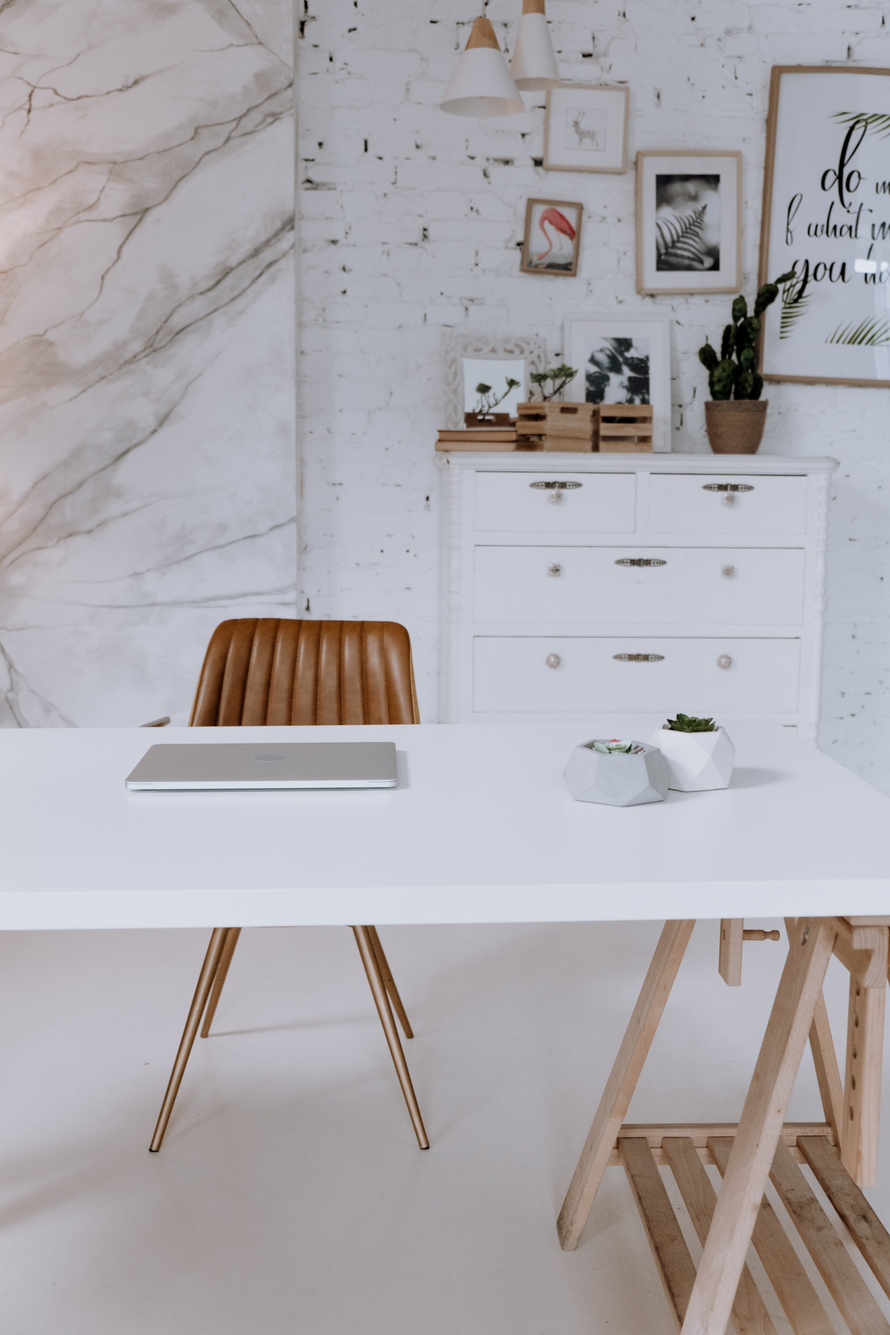
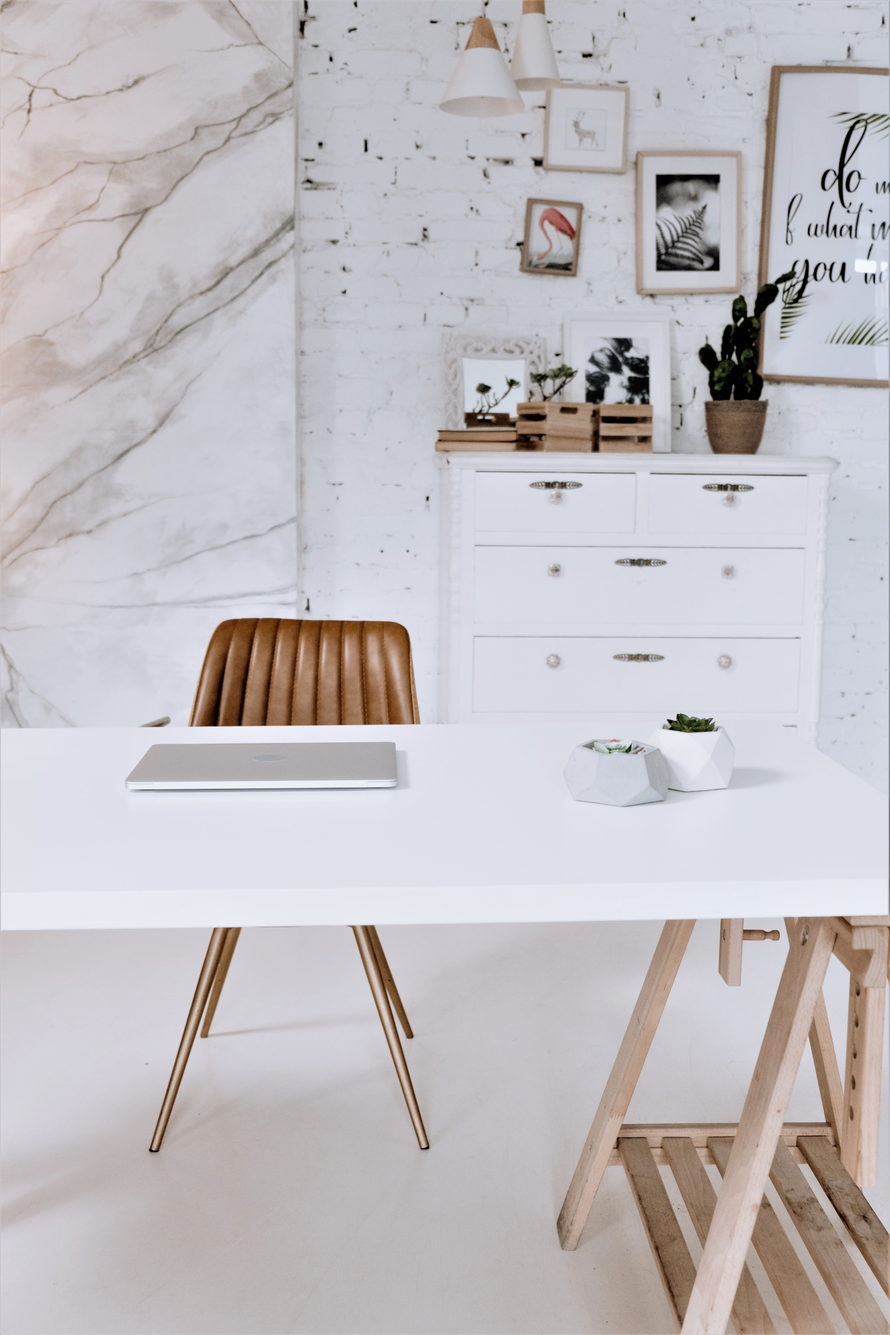
Styled 'Home' page.

diff --git a/src/components/Home/Home.module.css b/src/components/Home/Home.module.css
@@ -8,6 +8,7 @@
   position: relative;
   max-width: 1300px;
   margin: auto;
+
   /* background-position: center;
   background-size: cover;
   background-repeat: no-repeat; */
@@ -18,12 +19,70 @@
   top: -43%;
   display: block;
   width: 100%;
+  box-shadow: 0px 2px 14px 0px #8c6850;
 }
 .MainImage1 {
   position: absolute;
-  top: 18%;
+  top: 7%;
   display: block;
-  width: 400px;
-  right: 65%;
-  border: 15px solid #8c6850;
+  width: 450px;
+  right: 60%;
+  border: 7px solid #8c6850;
+}
+
+.MainText {
+  position: absolute;
+  left: 45%;
+  padding: 30px 20px;
+  width: 580px;
+  text-align: center;
+}
+
+.MainText h1 {
+  font-size: 60px;
+  font-family: 'Dancing Script';
+  color: #dcdfea;
+}
+
+.MainText p {
+  font-size: 40px;
+  font-family: 'Dancing Script';
+  color: #dcdfea;
+}
+
+.MainSideText {
+  position: absolute;
+  font-family: 'Dancing Script';
+  font-size: 40px;
+  transform: rotate(-17deg);
+  right: 68%;
+  bottom: 74%;
+  color: #181617;
+  font-weight: bold;
+}
+
+.MainButton {
+  position: absolute;
+  left: 62%;
+  top: 67%;
+  color: #dcdfea;
+  font-weight: bold;
+  text-transform: uppercase;
+  text-decoration: none;
+  letter-spacing: 1px;
+  background: #8c6850;
+  padding: 20px;
+  cursor: pointer;
+  display: inline-block;
+  border: none;
+  transition: all 0.3s ease 0s;
+  width: 180px;
+  border: 1px solid #dcdfea;
+}
+
+.MainButton:hover {
+  text-shadow: 0px 0px 7px rgba(255, 255, 255, 1);
+  box-shadow: 0px 5px 30px 3px rgba(140, 104, 80, 0.57);
+  transition: all 0.4s ease 0s;
+  border: none;
 }

diff --git a/src/components/Home/Home.js b/src/components/Home/Home.js
@@ -9,7 +9,16 @@ class Home extends Component {
       <main className={classes.Home} id='home'>
         <img className={classes.MainImage} src={img3} alt='' />
         <img className={classes.MainImage1} src={img1} alt='' />
-        <div></div>
+        <section className={classes.MainText}>
+          <h1>
+            Hi! I'm Izabela ! <br /> I'm so glad you're here !
+          </h1>
+          <p>Let's see what we've got here...</p>
+        </section>
+        <section className={classes.MainSideText}>
+          <p>Welcome on my board!</p>
+        </section>
+        <button className={classes.MainButton}>About Me</button>
       </main>
     );
   }

diff --git a/public/index.html b/public/index.html
@@ -28,6 +28,10 @@
     rel="stylesheet">
   <link rel="preconnect" href="https://fonts.gstatic.com">
   <link href="https://fonts.googleapis.com/css2?family=Montserrat&display=swap" rel="stylesheet">
+  <link rel="preconnect" href="https://fonts.gstatic.com">
+  <link
+    href="https://fonts.googleapis.com/css2?family=Dancing+Script:wght@400;600&family=Open+Sans&family=Roboto&display=swap"
+    rel="stylesheet">
   <title>My Portfolio</title>
 </head>
 

diff --git a/src/components/Navigation/Navigationitems/NavigationItem/NavigationItem.js b/src/components/Navigation/Navigationitems/NavigationItem/NavigationItem.js
@@ -9,6 +9,7 @@ const navigationItem = (props) => (
       to={props.id}
       spy={true}
       smooth={true}
+      offset={-100}
       duration={1000}
     >
       {props.children}

diff --git a/src/components/Navigation/Toolbar/Toolbar.module.css b/src/components/Navigation/Toolbar/Toolbar.module.css
@@ -12,6 +12,8 @@
   box-sizing: border-box;
   z-index: 90;
   box-shadow: 0px 2px 14px 0px #181617;
+  font-family: 'Montserrat', sans-serif;
+  font-weight: bold;
 }
 
 .Toolbar nav {

diff --git a/src/index.css b/src/index.css
@@ -1,7 +1,6 @@
-* {
+body {
   box-sizing: border-box;
   margin: 0;
   padding: 0;
-  font-family: 'Montserrat', sans-serif;
   background-color: #bfbfc1;
 }
